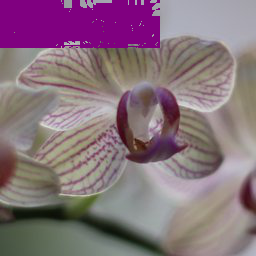
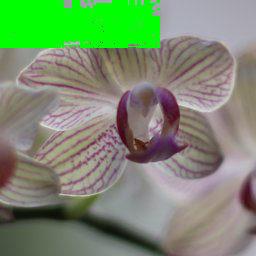
More differentiated comparison, better diff-color

Changed region(s): [[0.0, 0.0, 0.625, 0.1875]]

diff --git a/README.md b/README.md
@@ -42,9 +42,29 @@ The usual process of applying a (masked) overlay involved these steps:
 
 The steps marked with a * will lead to loss of quality.
 
+```bash
+gm convert image.png -filter Lanczos -resize 256x256 -quality 85 image.jpg
+gm composite dropon.png image.jpg -quality 90 image_composed.jpg
+gm compare -highlight-style assign -highlight-color lime -file image_composed_diff.png image.jpg image_composed.jpg
+```
+
 Original | Overlay | Result | Difference
 ---------|---------|--------|-----------
 ![Original](../master/contrib/images/image.jpg)|![Overlay](../master/contrib/images/dropon.png)|![Result](../master/contrib/images/image_composed.jpg)|![Overlay](../master/contrib/images/image_composed_diff.png)
+
+The composed image above has been saved with a quality setting of 86. Only if the quality settings of the original image are known, the composed image can be saved with the same quality settings in order to have almost no changes outside of the area of the overlay.
+
+```bash
+gm convert image.png -filter Lanczos -resize 256x256 -quality 85 image.jpg
+gm composite dropon.png image.jpg -quality 85 image_composed_sameq.jpg
+gm compare -highlight-style assign -highlight-color lime -file image_composed_sameq_diff.png image.jpg image_composed_sameq.jpg
+```
+
+Original | Overlay | Result | Difference
+---------|---------|--------|-----------
+![Original](../master/contrib/images/image.jpg)|![Overlay](../master/contrib/images/dropon.png)|![Result](../master/contrib/images/image_composed_sameq.jpg)|![Overlay](../master/contrib/images/image_composed_sameq_diff.png)
+
+The composed image above has been saved with a quality setting of 85, which is the same quality setting as the original image.
 
 libmodjpeg avoids the lossy decoding and re-encoding of the JPEG image by applying the overlay directly on the un-transformed DCT
 coefficients:
@@ -60,9 +80,17 @@ values are used as in step 2.
 
 Only the area where the overlay is applied to is affected by changes and the rest of the image will remain untouched.
 
+```bash
+gm convert image.png -filter Lanczos -resize 256x256 -quality 85 image.jpg
+modjpeg --in image.jpg --dropon dropon.png --out image_dropon.jpg
+gm compare -highlight-style assign -highlight-color lime -file image_dropon_diff.png image.jpg image_dropon.jpg
+```
+
 Original | Overlay | Result | Difference
 ---------|---------|--------|-----------
 ![Original](../master/contrib/images/image.jpg)|![Overlay](../master/contrib/images/dropon.png)|![Result](../master/contrib/images/image_dropon.jpg)|![Overlay](../master/contrib/images/image_dropon_diff.png)
+
+The overlay is applied with the `modjpeg` CLI program, that uses libmodjpeg in order to apply a dropon to a JPEG image. The quality settings of the original image can remain unknown. Changes to the image will only be applied where the overlay will be applied.
 
 The overlay itself will experience a loss of quality because it needs to be transformed into the DCT domain
 with the same colorspace, sampling, and quantization as the image it will be applied to.
@@ -134,11 +162,6 @@ cmake .
 make
 ```
 In case the jpeglib (or compatible) is installed in a non-standard location, use the same environment variable for cmake as described above.
-
-
-## Comparison
-
-For comparing the differnce between the conventional
 
 
 ## Compatibility
